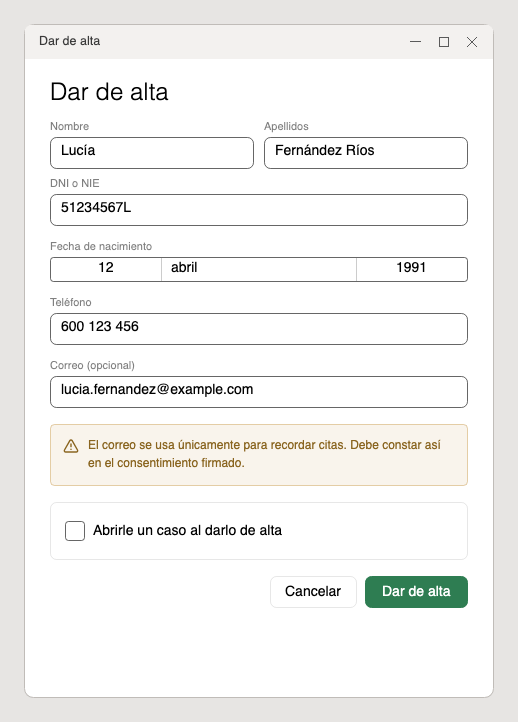
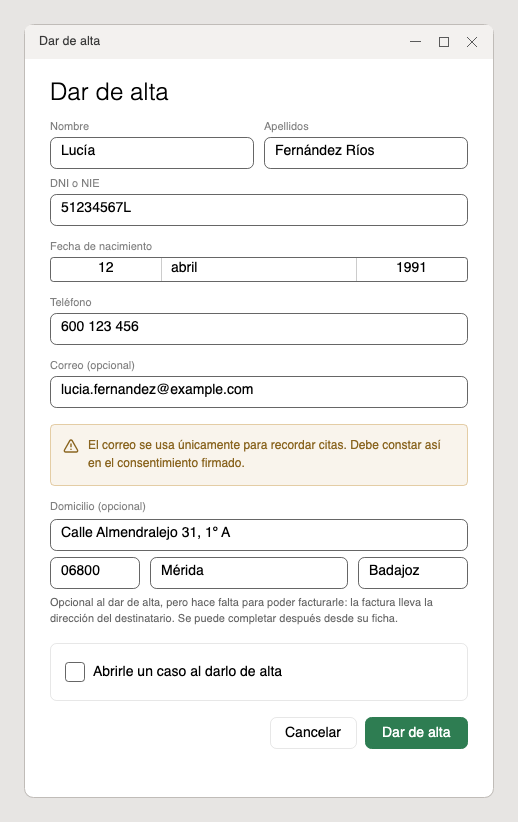
Actualizar la web para 0.1.7

diff --git a/MANUAL.md b/MANUAL.md
@@ -204,6 +204,12 @@ Cinco secciones a la izquierda: **Agenda**, **Pacientes**, **Facturación**,
 NIE, fecha de nacimiento, teléfono y correo (el correo es opcional, pero sin él
 no se le pueden enviar avisos de cita).
 
+Debajo va el **domicilio**, también opcional. Se puede dejar en blanco y
+completarlo después desde la ficha, pero hace falta para poder facturarle: la
+factura lleva la dirección del destinatario. Va todo junto —calle, código
+postal, municipio y provincia—: media dirección no vale, y la ventana avisa si
+se rellenan unos campos y otros no.
+
 ![Ventana de dar de alta a un paciente](imagenes/dar-de-alta.png)
 
 ### Abrir un caso
@@ -234,6 +240,12 @@ adelante (§10): una ficha con casos abiertos no se puede suprimir.
 
 En Pacientes, con la persona elegida: **Registrar consentimiento firmado…**, y
 se adjunta el documento escaneado. Queda guardado cifrado dentro de la ficha.
+
+Si el escaneo ya está a la vista en el Explorador, se puede **arrastrar el PDF**
+sobre el recuadro de puntos que hay justo debajo de esos botones y soltarlo ahí:
+hace lo mismo sin pasar por el diálogo de archivos. El recuadro se enciende
+cuando lo que se lleva encima vale, y se pone en rojo cuando no (por ejemplo, un
+Word en vez de un PDF, o varios archivos a la vez).
 
 ---
 
@@ -352,9 +364,11 @@ Pestaña **Material de trabajo** de la ficha. Cuelga del caso elegido arriba, ig
 que los informes.
 
 Para registrar algo: nombre (por ejemplo *WAIS-IV* o *BDI-II*), fecha en
-que se pasó, notas o interpretación si se quiere, y **Elegir archivo y guardar**.
-El archivo (PDF, o una foto/escaneo en JPG o PNG) se guarda
-cifrado dentro de la ficha; en disco no queda nada legible.
+que se pasó, notas o interpretación si se quiere, y el archivo. El archivo se
+puede **arrastrar** sobre el recuadro de puntos o buscarlo con **…o elegir
+archivo y guardar**; por los dos caminos se guarda con el nombre, la fecha y las
+notas que estén escritos arriba. El archivo (PDF, o una foto/escaneo en JPG o
+PNG) se guarda cifrado dentro de la ficha; en disco no queda nada legible.
 
 Con un material elegido de la lista:
 
